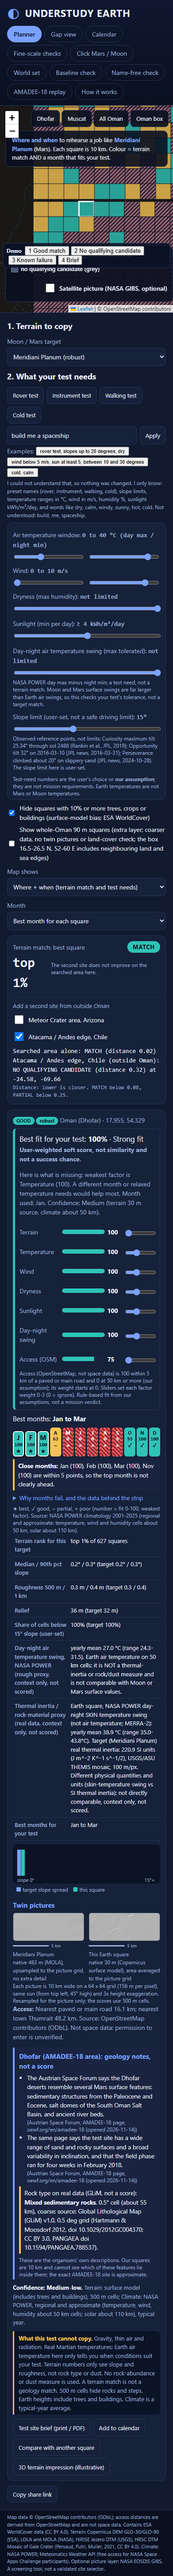
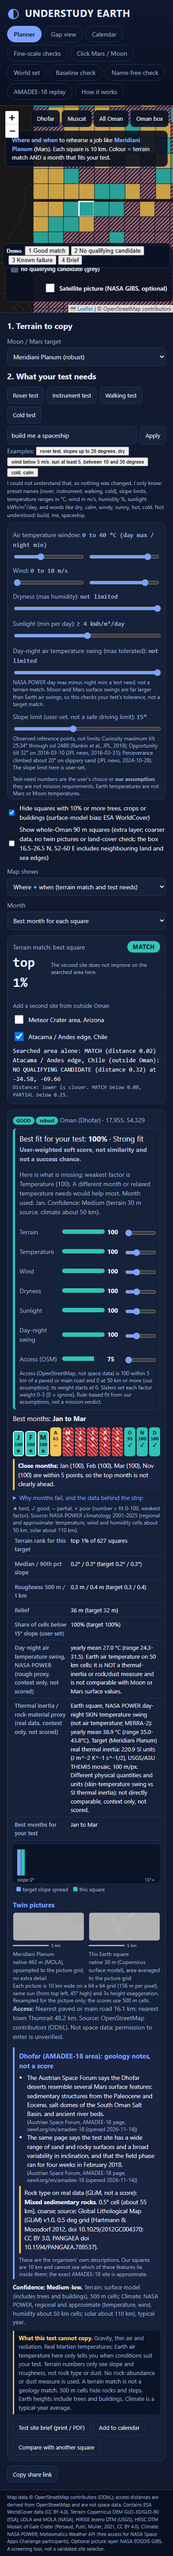
remove the 3D view, it was showing invented terrain not real data

Changed region(s): [[0.0308, 0.0, 1.0, 0.999]]

diff --git a/app/app.js b/app/app.js
@@ -138,7 +138,6 @@
       var a = ev.target.getAttribute && ev.target.getAttribute('data-act');
       if (a === 'brief') openBrief(); else if (a === 'cmp') { cmpNext = true; $('result').insertAdjacentHTML('afterbegin', '<p class="hint">Now click a second square to compare.</p>'); }
       else if (a === 'addcal') { addCal(); } else if (a === 'clearcal') { st.cal = []; renderCal(); } else if (a === 'closebrief') $('brief').hidden = true; else if (a === 'print') window.print(); else if (a === 'clearb') { selB = null; renderResult(); }
-      else if (a === 't3d') openT3D(t3d.e, t3d.label); else if (a === 'rot3d') { t3d.angle += (+ev.target.getAttribute('data-dir')) * 0.35; draw3D(); } else if (a === 'closet3d') $('t3d').hidden = true;
     });
   }
 
@@ -335,47 +334,6 @@
       ['Best months for your test', e._best.length ? N.monthsText(e._best) : 'none fits']];
   }
 
-  // ---- 3D terrain impression: NOT real elevation data. A synthetic surface generated to match
-  // this window's own real, measured numbers (relief, roughness, slope), deterministic per window,
-  // so the same square always draws the same shape. Illustrative only, never scored.
-  var t3d = { e: null, label: '', angle: 0.78 };
-  function hash32(s) { var h = 0; for (var i = 0; i < s.length; i++) h = (h * 31 + s.charCodeAt(i)) | 0; return h; }
-  function mulberry32(a) { return function () { a |= 0; a = a + 0x6D2B79F5 | 0; var x = Math.imul(a ^ a >>> 15, 1 | a); x = x + Math.imul(x ^ x >>> 7, 61 | x) ^ x; return ((x ^ x >>> 14) >>> 0) / 4294967296; }; }
-  function heightfield(e) {
-    var N = 17, rnd = mulberry32(hash32(e.id || e.name || 'w')), h = new Array(N * N), oct = [[2, 1], [4, 0.5], [8, 0.25]];
-    var ph = oct.map(function () { return rnd() * 6.28; });
-    for (var y = 0; y < N; y++) for (var x = 0; x < N; x++) {
-      var v = 0; oct.forEach(function (o, k) { v += o[1] * Math.sin(x / (N - 1) * o[0] * 2.1 + ph[k]) * Math.cos(y / (N - 1) * o[0] * 1.7 + ph[k] * 1.3); });
-      h[y * N + x] = v;
-    }
-    var mn = Math.min.apply(null, h), mx = Math.max.apply(null, h), relief = e.relief_m || 50, rough = e.rough_med || 5;
-    for (var i = 0; i < h.length; i++) h[i] = (h[i] - mn) / ((mx - mn) || 1) * relief + (rnd() - 0.5) * rough * 1.5;
-    return { N: N, h: h };
-  }
-  function draw3D() {
-    var e = t3d.e; if (!e) return;
-    var hf = heightfield(e), N = hf.N, h = hf.h, cv = $('t3dcv'), c = cv.getContext('2d'), W = cv.width, H = cv.height;
-    c.clearRect(0, 0, W, H); c.fillStyle = '#05080f'; c.fillRect(0, 0, W, H);
-    var scale = Math.min(W, H) / (N * 1.5), cx = W / 2, cy = H * 0.26, maxh = Math.max.apply(null, h) || 1, a = t3d.angle;
-    var ca = Math.cos(a), sa = Math.sin(a);
-    function proj(x, y, z) {
-      var rx = x * ca - y * sa, ry = x * sa + y * ca;
-      return [cx + rx * scale * 0.86, cy + ry * scale * 0.5 - z / maxh * scale * 2.0];
-    }
-    var cells = []; for (var y = 0; y < N - 1; y++) for (var x = 0; x < N - 1; x++) cells.push([x, y]);
-    cells.sort(function (p, q) { return (p[0] + p[1]) - (q[0] + q[1]); });
-    cells.forEach(function (xy) {
-      var x = xy[0], y = xy[1], z00 = h[y * N + x], z10 = h[y * N + x + 1], z01 = h[(y + 1) * N + x], z11 = h[(y + 1) * N + x + 1];
-      var p00 = proj(x, y, z00), p10 = proj(x + 1, y, z10), p11 = proj(x + 1, y + 1, z11), p01 = proj(x, y + 1, z01);
-      var light = 0.4 + 0.6 * ((z00 + z10 + z01 + z11) / 4 / maxh + 0.5), g = Math.max(30, Math.min(230, Math.round(90 * light)));
-      c.fillStyle = 'rgb(' + g + ',' + Math.round(g * 0.92) + ',' + Math.round(g * 0.82) + ')';
-      c.beginPath(); c.moveTo(p00[0], p00[1]); c.lineTo(p10[0], p10[1]); c.lineTo(p11[0], p11[1]); c.lineTo(p01[0], p01[1]); c.closePath();
-      c.fill(); c.strokeStyle = 'rgba(0,0,0,0.25)'; c.stroke();
-    });
-    $('t3dcap').innerHTML = esc(t3d.label) + ' &middot; Not real elevation data: a synthetic surface generated to match this window\'s own measured relief (' + Math.round(e.relief_m) + ' m), roughness (' + e.rough_med.toFixed(1) + ' m) and slope, so you can picture the numbers in the table. The real terrain is not shaped like this; only the statistics match. Illustrative only, never scored.';
-  }
-  function openT3D(e, label) { t3d.e = e; t3d.label = label; t3d.angle = 0.78; $('t3d').hidden = false; draw3D(); }
-
   function chart(e) {
     var cv = $('slopechart'); if (!cv) return;
     var ctx = cv.getContext('2d'), W = cv.width, H = cv.height, t = st.target, nb = 16;
@@ -418,7 +376,6 @@
     var el = $('result');
     if (!sel) { el.innerHTML = '<p class="hint">Click a square on the map to see where it fits, when it fits, and what Earth cannot copy.</p>'; return; }
     var e = sel, k = e._tier, c = climate(e), cf = confidence(e);
-    t3d.e = e; t3d.label = 'Earth square ' + e.lat.toFixed(2) + ', ' + e.lon.toFixed(2);
     var rows = metricRows(e).map(function (r) { return '<tr><th>' + esc(r[0]) + '</th><td>' + esc(r[1]) + '</td></tr>'; }).join('');
     var h = '<div><span class="chip ' + k + '">' + LABEL[k] + '</span> <span class="chip ' + (stabOf(st.target) && stabOf(st.target).threshold_sensitive ? 'partial' : 'match') + '">' + robustText(st.target) + '</span> <span class="sub">' + esc(GROUPS[e.group]) + ' &middot; ' + e.lat.toFixed(3) + ', ' + e.lon.toFixed(3) + '</span></div>' +
       verdictHtml(e) + '<div class="best">Best months: <b>' + (e._best.length ? esc(N.monthsText(e._best)) : 'none fits your test') + '</b></div>' + stripHtml(e) + monthNotes(e) +
@@ -426,7 +383,7 @@
       '<table>' + rows + '</table><div class="chartbox"><canvas id="slopechart" width="340" height="90"></canvas><small><i class="dot b"></i>target slope spread <i class="dot g"></i>this square</small></div>' +
       twinHtml(e) + '<p class="sub"><b>Access:</b> ' + esc(accessLine(e)) + '</p>' + notesHtml(e) + (e.group === 'oman90' ? '<p class="note">90 m data: coarser than the 30 m squares, shown as an extra layer; land cover was not checked here.</p>' : '') + '<div class="conf"><b>Confidence: ' + cf.level + '.</b> ' + cf.items.map(esc).join('; ') + '.</div>' +
       '<div class="limits"><b>What this test cannot copy.</b> Gravity, thin air and radiation. Real ' + (st.target.body === 'Moon' ? 'lunar' : 'Martian') + ' temperatures: Earth air temperature here only tells you when conditions suit your test. Terrain numbers only see slope and roughness, not rock type or dust. No rock-abundance or dust measure is used. A terrain match is not a geology match. 500 m cells hide rocks and steps. Earth heights include trees and buildings. Climate is a typical-year average.</div>' +
-      '<div class="btns"><button data-act="brief">Test site brief (print / PDF)</button><button data-act="addcal">Add to calendar</button><button data-act="cmp">Compare with another square</button><button data-act="t3d">3D terrain impression (illustrative)</button></div>';
+      '<div class="btns"><button data-act="brief">Test site brief (print / PDF)</button><button data-act="addcal">Add to calendar</button><button data-act="cmp">Compare with another square</button></div>';
     if (selB) {
       var A = metricRows(sel), B = metricRows(selB);
       h += '<h3>Compare</h3><table><tr><th></th><th>A ' + sel.lat.toFixed(2) + ', ' + sel.lon.toFixed(2) + '</th><th>B ' + selB.lat.toFixed(2) + ', ' + selB.lon.toFixed(2) + '</th></tr>' + A.map(function (r, i) { return '<tr><th>' + esc(r[0]) + '</th><td>' + esc(r[1]) + '</td><td>' + esc(B[i][1]) + '</td></tr>'; }).join('') + '</table><button data-act="clearb">Clear B</button>';
@@ -527,7 +484,6 @@
     return { unknown: false, clat: clat, clon: clon, km: Math.sqrt(dx * dx + dy * dy), w: { id: 'MC', name: 'Mars window ' + clat.toFixed(1) + '°, ' + clon.toFixed(1) + '°', body: 'Mars', slope_p50: f[0], slope_p90: f[1], steep_share: f[2], rough_med: f[3], rough1k_med: f[4], relief_m: f[5], hist: histFrom(sh) } };
   }
   function skyResult(w, label, conf, extra) {
-    t3d.e = w; t3d.label = label;
     var rows = [['Median / 90th pct slope', w.slope_p50.toFixed(1) + '° / ' + w.slope_p90.toFixed(1) + '°'], ['Roughness 500 m / 1 km', w.rough_med.toFixed(1) + ' m / ' + w.rough1k_med.toFixed(1) + ' m'], ['Relief in 10 km', Math.round(w.relief_m) + ' m'], ['Cells above 10° slope', Math.round(w.steep_share * 100) + '%']];
     var ds = D.earth.map(function (e) { return { e: e, d: SC.distance(e, w) }; }).sort(function (a, b) { return a.d - b.d; });
     var om = ds.filter(function (x) { return x.e.group.indexOf('oman') === 0 && !masked(x.e); }), tier = SC.gapTier(om[0].d);
@@ -538,8 +494,7 @@
     $('skyres').innerHTML = '<h3>' + esc(label) + '</h3>' + steepWarn + (extra || '') + '<table>' + rows.map(function (r) { return '<tr><th>' + esc(r[0]) + '</th><td>' + esc(r[1]) + '</td></tr>'; }).join('') + '</table>' +
       '<p><span class="chip ' + tier + '">' + GLABEL[tier] + '</span> best square in the searched area: distance ' + om[0].d.toFixed(3) + ' (match below ' + D.meta.thr_match_dist.toFixed(2) + ', partial below ' + D.meta.thr_partial_dist.toFixed(2) + '). Best fit among the squares searched, not a global best. Not checked for stability.</p>' +
       '<h4>Closest squares in the searched area</h4>' + tb(om.slice(0, 5)) + '<h4>Closest squares anywhere in our set</h4>' + tb(ds.slice(0, 3)) + vh +
-      '<div class="conf"><b>Confidence: Low.</b> ' + esc(conf) + '</div><div class="limits"><b>What this cannot see.</b> Terrain numbers only see slope and roughness, not rock type or dust. Gravity, air and radiation are not copied. 500 m cells hide rocks and steps; Earth heights are a surface model. A terrain match is not a geology match.</div>' +
-      '<div class="btns"><button data-act="t3d">3D terrain impression (illustrative)</button></div>';
+      '<div class="conf"><b>Confidence: Low.</b> ' + esc(conf) + '</div><div class="limits"><b>What this cannot see.</b> Terrain numbers only see slope and roughness, not rock type or dust. Gravity, air and radiation are not copied. 500 m cells hide rocks and steps; Earth heights are a surface model. A terrain match is not a geology match.</div>';
   }
   function renderSky() {
     var pole = POLE[skyBody];

diff --git a/app/index.html b/app/index.html
@@ -115,9 +115,7 @@
   </aside>
 </main>
 <footer class="foot">Map data &copy; OpenStreetMap contributors (ODbL); access distances are derived from OpenStreetMap and are not space data. Contains ESA WorldCover data (CC BY 4.0). Terrain: Copernicus DEM GLO-30/GLO-90 (ESA), LOLA and MOLA (NASA), HiRISE Jezero DTM (USGS), HRSC DTM Mosaic of Gale Crater (Persaud, Putri, Muller, 2021, CC BY 4.0). Climate: NASA POWER; Meteomatics Weather API (free access for NASA Space Apps Challenge participants). Optional picture layer: NASA EOSDIS GIBS. A screening tool, not a validated site selector.</footer>
-<div id="brief" class="brief" hidden></div>
-<div id="t3d" class="brief" hidden><div class="bar-top"><button data-act="rot3d" data-dir="-1">&#8634; Rotate</button><button data-act="rot3d" data-dir="1">Rotate &#8635;</button><button data-act="closet3d">Close</button></div><h2>3D terrain impression (illustrative)</h2><canvas id="t3dcv" width="480" height="360" aria-label="Illustrative 3D terrain impression"></canvas><p class="sub" id="t3dcap"></p></div>
-<script src="https://unpkg.com/leaflet@1.9.4/dist/leaflet.js"></script>
+<div id="brief" class="brief" hidden></div><script src="https://unpkg.com/leaflet@1.9.4/dist/leaflet.js"></script>
 <script src="score.js"></script>
 <script src="needs.js"></script>
 <script src="app.js"></script>
